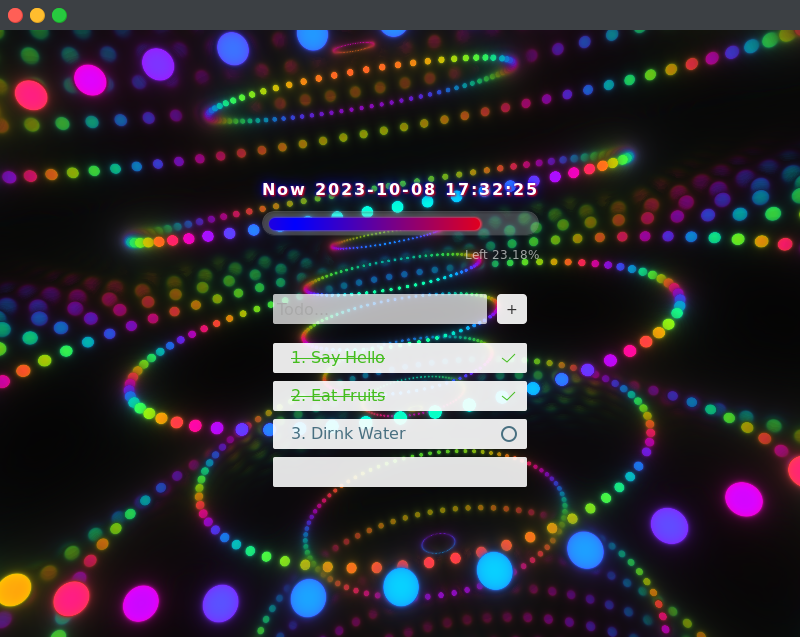
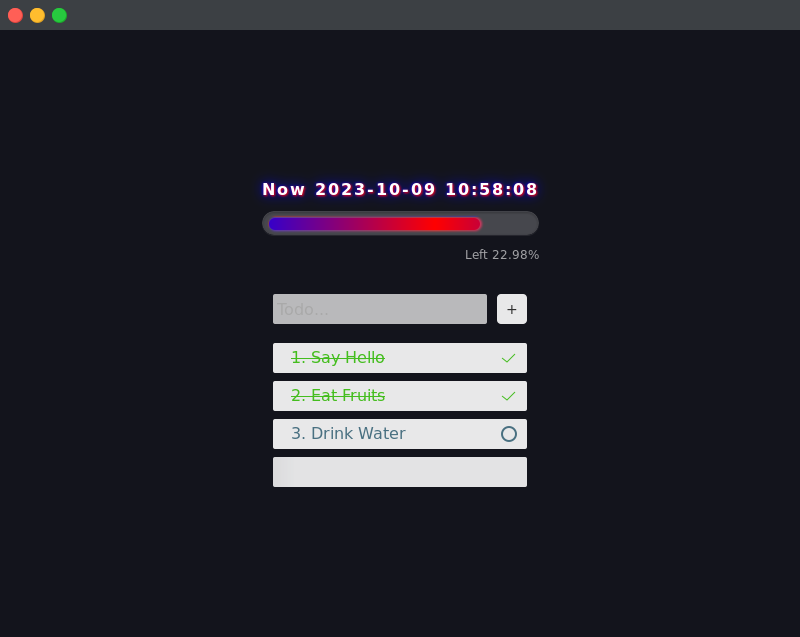
mod: update

diff --git a/src/routes/+page.svelte b/src/routes/+page.svelte
@@ -3,16 +3,13 @@
 	import { setupBar } from '$lib/titleBar';
 	import Todo from '$lib/Todo.svelte';
 	import Clock from '$lib/Clock.svelte';
-	import setUpCanvas from '$lib/canvas.js';
 
 	onMount(()=>{
 		setupBar();
-		setUpCanvas();
 	});
 </script>
 
 <div class="page-center">
-	<canvas id="page-bg"/>
 	<Clock/>
 	<Todo />
 </div>

diff --git a/static/pretty.css b/static/pretty.css
@@ -68,14 +68,3 @@ body {
 	justify-content: center;
 	align-items: center;
 }
-#page-bg {
-	position: absolute;
-	top: 0;
-	left: 0;
-	right: 0;
-	bottom: 0;
-	z-index: -1;
-	width: 100%;
-	height: auto;
-	user-select: none;
-}

diff --git a/README.md b/README.md
@@ -9,7 +9,7 @@ Practice project based on different technology stacks.
 
 ### `v5.0.0`
 
-- Tauri + Svelte + Rust
+- [Tauri](https://tauri.app/zh-cn/) + [Svelte](https://svelte.dev/) + [Rust](https://www.rust-lang.org/)
 - SvelteKit + Vite
 
 ![twaster@v5-1](./docs/twaster@v5_1.png)
@@ -21,6 +21,15 @@ Practice project based on different technology stacks.
 - ReactApp + Vite
 - TailwindCSS + Framer Motion + Emotion
 - TS + Prettier + Eslint + Husky
+
+```bash
+rustup toolchain install stable-x86_64-pc-windows-msvc
+rustup default stable-x86_64-pc-windows-msvc
+# serve via tauri
+pnpm tauri dev
+# build release
+pnpm tauri build --target x86_64-pc-windows-msvc  
+```
 
 ![twaster@v4-1](./docs/twaster@v4_1.png)
 ![twaster@v4-2](./docs/twaster@v4_2.gif)
@@ -55,9 +64,6 @@ pnpm install
 
 # serve with hot reload at localhost:8080
 pnpm run dev
-
-# serve with tauri
-pnpm tauri dev
 
 # build for production with minification
 pnpm run build
